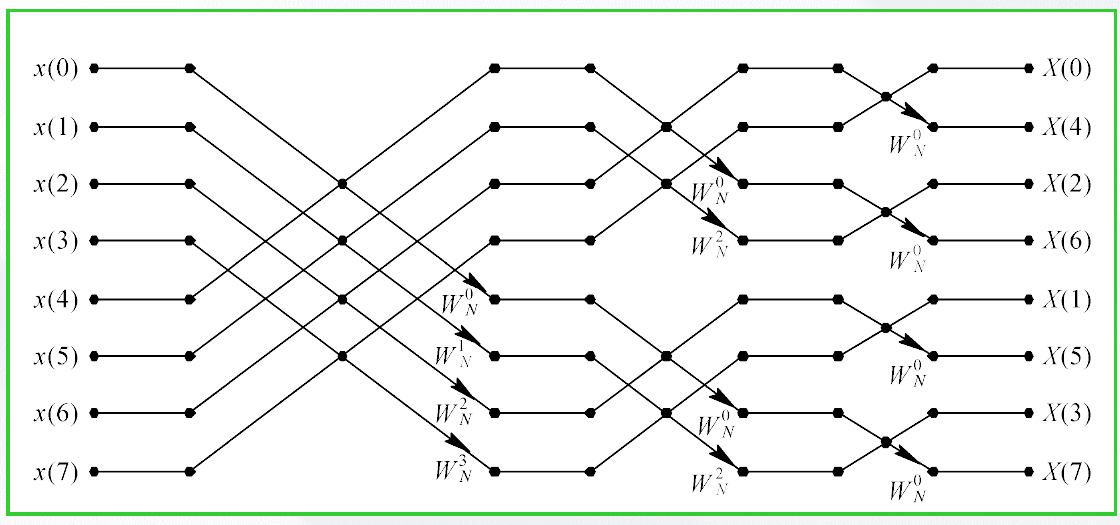
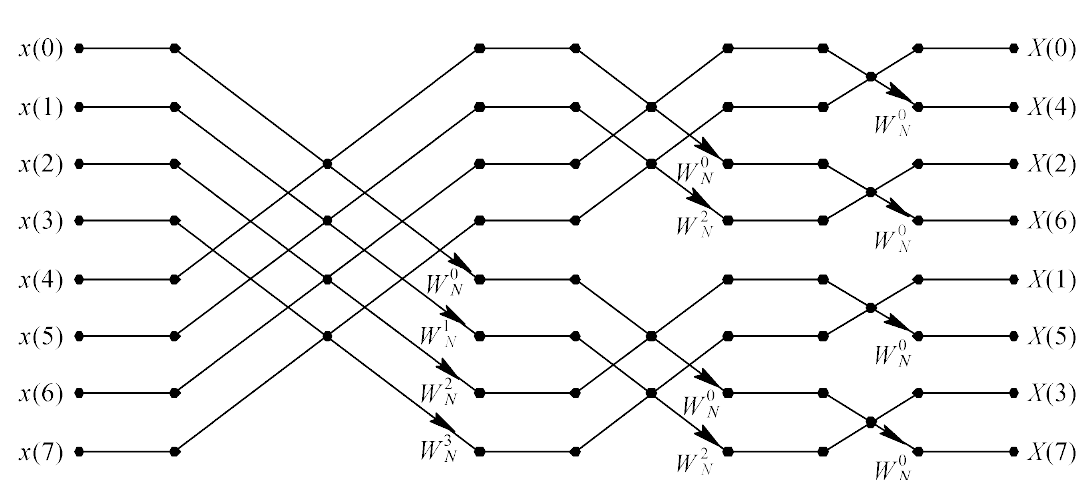
Trim course frames from FFT diagrams

diff --git a/full/tests/test_crop_source_figures.py b/full/tests/test_crop_source_figures.py
@@ -9,7 +9,7 @@ def test_source_figure_crops_exclude_complete_course_slide_shell(tmp_path: Path,
     monkeypatch.setattr(cropper, "DESTINATION", tmp_path)
     outputs = cropper.crop_all()
 
-    assert len(outputs) == 3
+    assert len(outputs) == 2
     assert all(output.is_file() for output in outputs)
     # The original lecture slides are 1534 by 863, so every crop must discard
     # some surrounding course-slide chrome rather than replay a complete slide.
@@ -24,6 +24,5 @@ def test_crops_exclude_slide_explanations_and_keep_only_technical_bodies():
 
     # Remove the DIT slide's bottom calculation banner and the FIR slide's
     # explanatory bullet list; neither is part of the structural drawing.
-    assert 650 <= boxes["ch04-dit-fft-n8-flow.png"][3] <= 670
-    assert boxes["ch05-fir-direct-form.png"][0] >= 300
-    assert boxes["ch05-fir-direct-form.png"][2] >= 1100
+    assert boxes["ch04-dit-fft-n8-flow.png"] == (75, 100, 1350, 645)
+    assert boxes["ch04-dif-fft-n8-flow.png"] == (220, 240, 1310, 720)

diff --git a/full/tools/crop_source_figures.py b/full/tools/crop_source_figures.py
@@ -17,9 +17,8 @@ DESTINATION = ROOT / "full" / "assets" / "source-figures"
 
 # (source image, destination image, left, top, right, bottom)
 CROPS = (
-    ("src-0591-0591.png", "ch04-dit-fft-n8-flow.png", (45, 90, 1490, 650)),
-    ("src-0622-0622.png", "ch04-dif-fft-n8-flow.png", (205, 220, 1325, 745)),
-    ("src-0713-0713.png", "ch05-fir-direct-form.png", (330, 365, 1120, 600)),
+    ("src-0591-0591.png", "ch04-dit-fft-n8-flow.png", (75, 100, 1350, 645)),
+    ("src-0622-0622.png", "ch04-dif-fft-n8-flow.png", (220, 240, 1310, 720)),
 )
 
 

diff --git a/.codex/tasks/2026-08-13_203000-ch4-fft-frame-boundary-qa.md b/.codex/tasks/2026-08-13_203000-ch4-fft-frame-boundary-qa.md
@@ -1,0 +1,20 @@
+# Chapter 4 FFT figure frame-boundary QA
+
+## Objective
+
+Remove remaining course-slide borders from the retained DIT and DIF FFT flow diagrams while preserving every technical path, node, label, and I/O marker.
+
+## Completed
+
+- Replaced the two coarse crop boxes with tighter image-specific boundaries.
+- Removed green outer slide frames and residual slide-only space.
+- Retained all eight input/output labels, butterfly paths, node dots, and twiddle-factor labels.
+
+## Verification
+
+- `pytest -q full/tests/test_build_all_main_body.py full/tests/test_build_chapter_05_filter_structures_mathjax_component.py full/tests/test_crop_source_figures.py` → `4 passed`.
+- Direct image visual inspection confirms complete technical drawings with no remaining slide title strip, school mark, footer, or colored outer frame.
+
+## Next action
+
+Continue the main-body page-by-page visual audit and replace any remaining unsafe source crop with a complete vector diagram.

diff --git a/.codex/progress.md b/.codex/progress.md
@@ -796,3 +796,7 @@
 - Corrected the DTMF parallel resonator diagram: each branch arrow now terminates on the corresponding upper/lower input port of the summing node, rather than ending in empty space near it.
 - Rebuilt `tmp/dsp-main-body-crop-qa-v6.pdf`; visual QA on page 67 confirms the two inputs, summer, output arrow, and labels are unambiguous. MathJax: `unrendered=[]`, `pageErrors=[]`.
 - Added structural regression assertions for the exact two branch-to-summer paths and widened the input label allocation to prevent its formula from being truncated.
+# 2026-08-13 Ch4 FFT crop frame cleanup
+
+- Tightened DIT/DIF FFT source figure boxes to remove remaining green course-slide borders while preserving every technical input/output, butterfly path, node, and twiddle-factor label.
+- Regression: main-body, chapter-five, and crop suites `4 passed`; both output figures inspected directly before commit.
